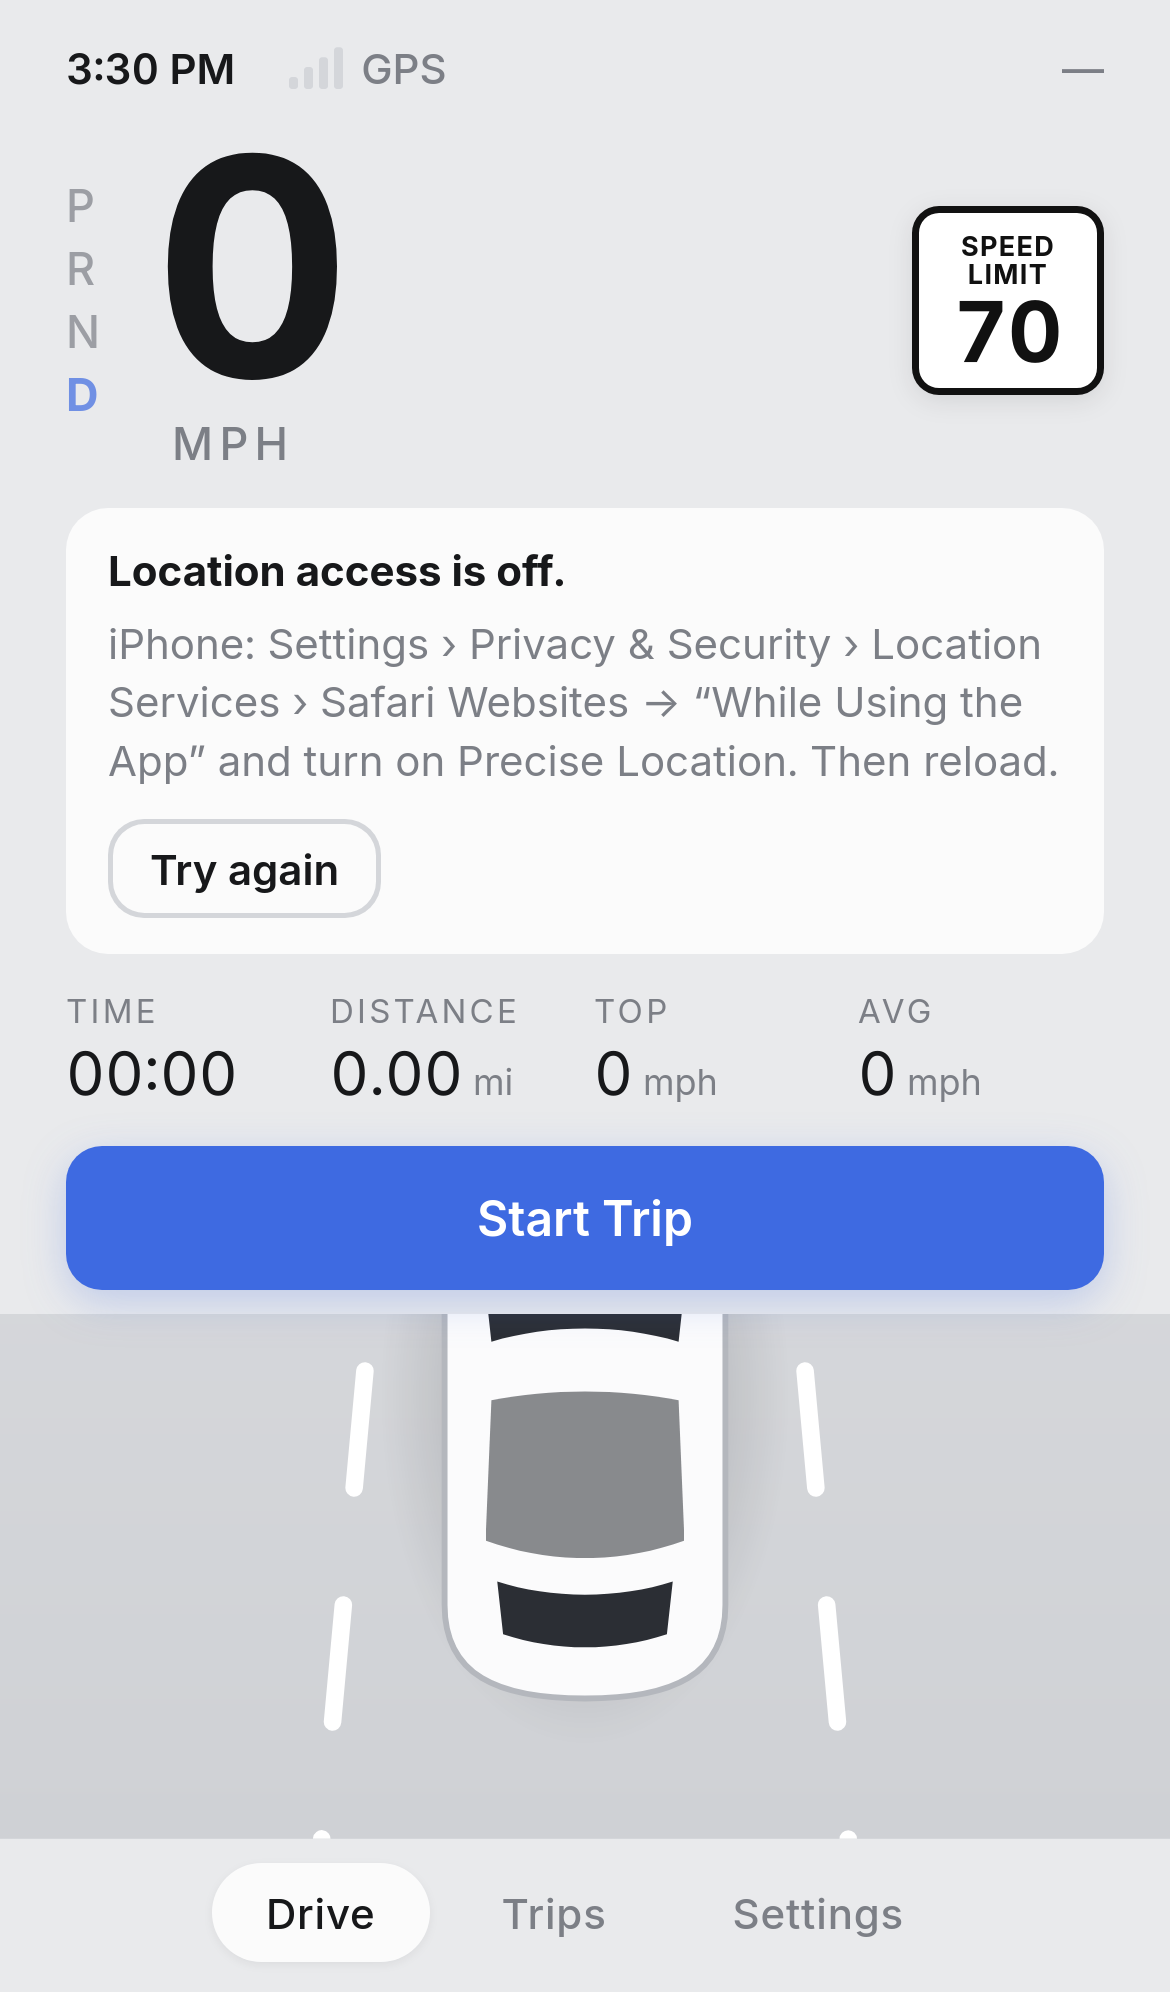
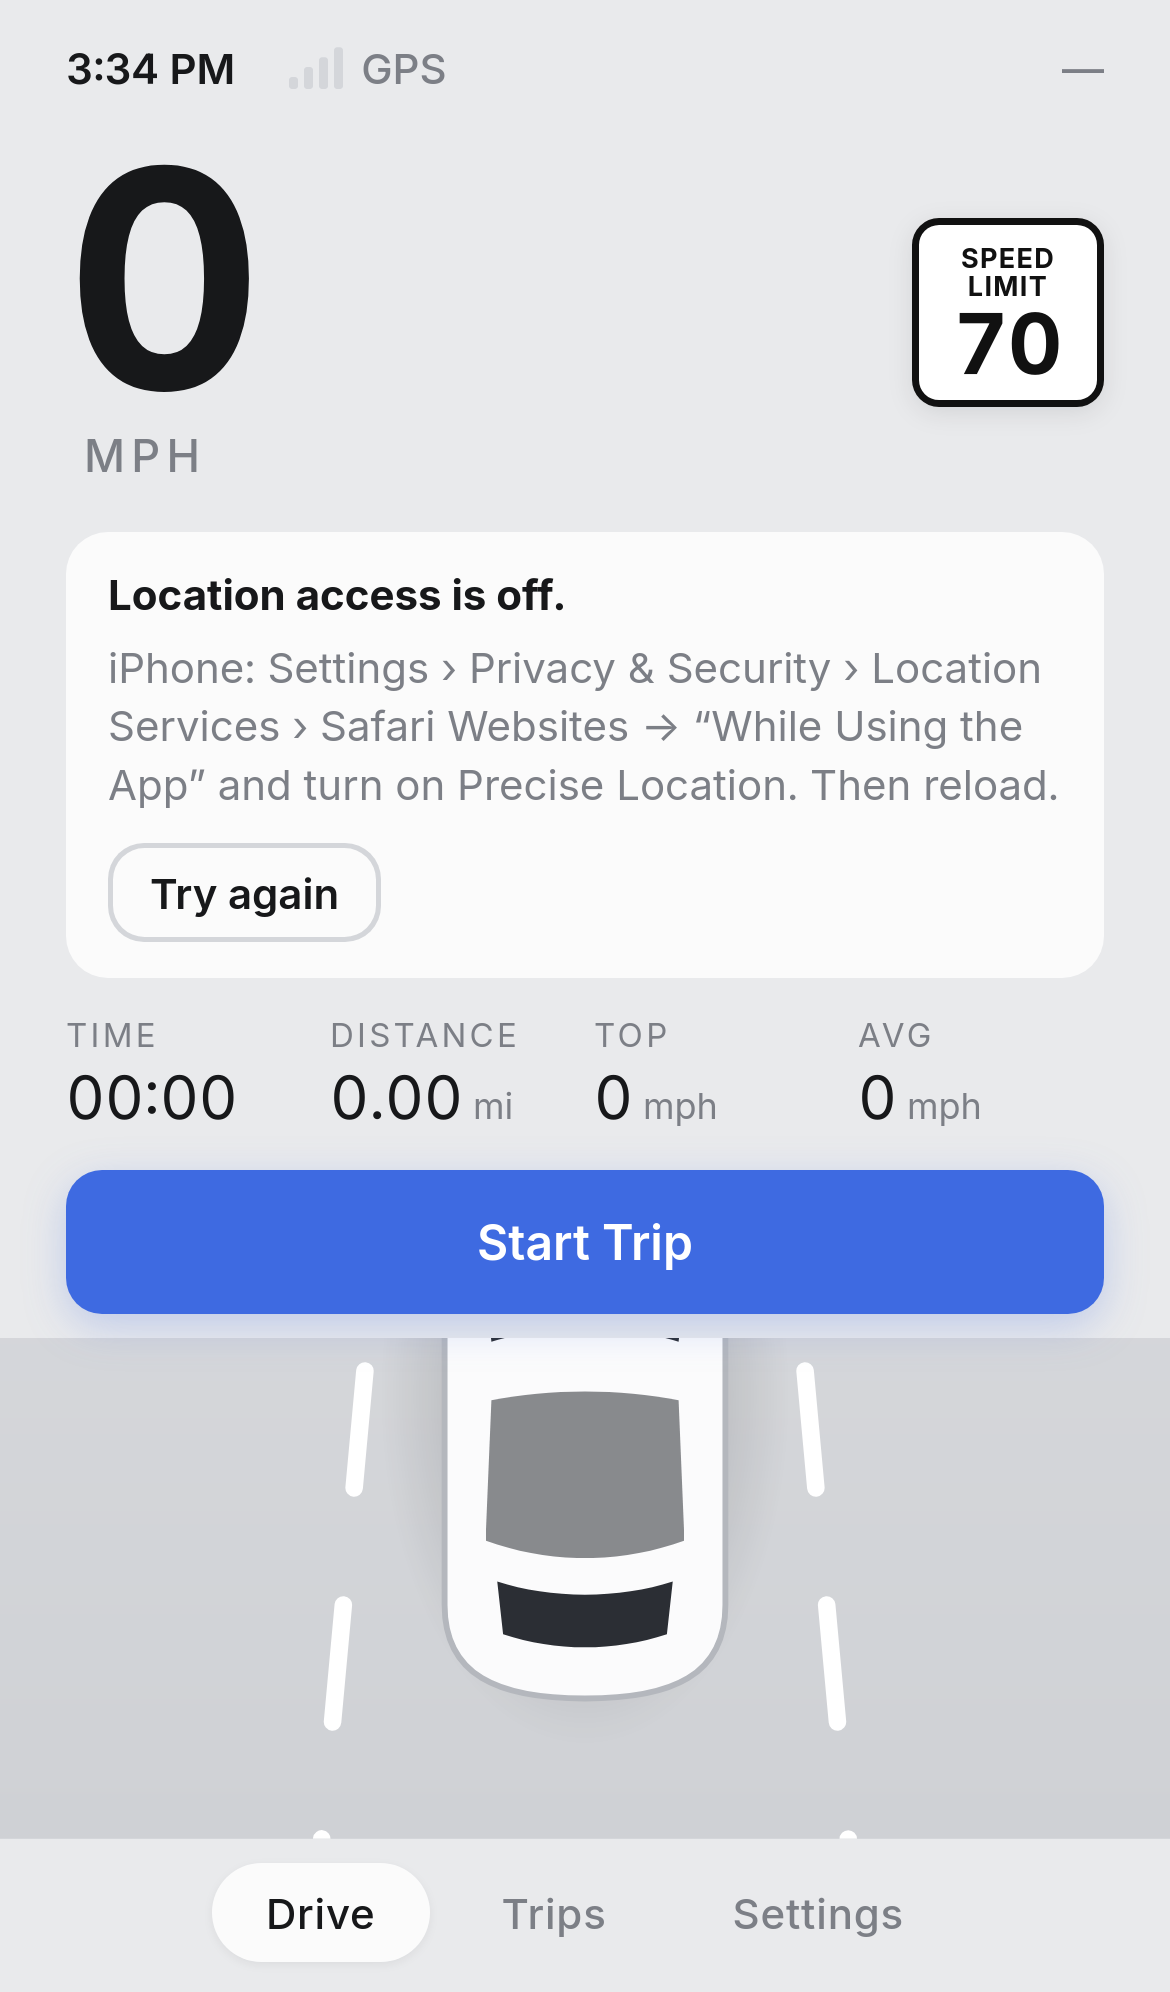
Remove PRND gear indicator, rebalance speed row; v2 SW cache

diff --git a/src/index.css b/src/index.css
@@ -28,9 +28,8 @@ button { font: inherit; color: inherit; cursor: pointer; -webkit-tap-highlight-c
 .status .tripd { margin-left: auto; }
 .signal { display: inline-flex; gap: 6px; align-items: center; }
 .signal .b { fill: var(--line); } .signal .b.on { fill: var(--fg); }
-.speedrow { display: grid; grid-template-columns: auto 1fr auto; align-items: center; gap: 18px; }
-.gears { display: flex; flex-direction: column; gap: 2px; font-size: 15px; font-weight: 500; color: var(--mut); opacity: .7; }
-.gears .on { color: var(--accent); opacity: 1; font-weight: 700; }
+.speedrow { display: flex; align-items: center; justify-content: space-between; gap: 20px; padding: 4px 0; }
+.speed { min-width: 0; }
 .speed .num { font-size: clamp(88px, 26vw, 150px); font-weight: 700; line-height: .9; letter-spacing: -.04em; transition: color .25s; }
 .speed .unit { font-size: 15px; font-weight: 500; letter-spacing: .14em; color: var(--mut); margin-top: 4px; padding-left: 6px; }
 .limit { width: 64px; padding: 6px 4px 4px; border-radius: 9px; background: #fff; color: #111; border: 2.5px solid #111; text-align: center; box-shadow: 0 2px 8px #00000018; transition: all .25s; }
@@ -69,6 +68,7 @@ button { font: inherit; color: inherit; cursor: pointer; -webkit-tap-highlight-c
   .drive { grid-template-rows: 1fr; grid-template-columns: minmax(330px, 40%) 1fr; }
   .panel { justify-content: center; padding: 16px 28px; }
   .speed .num { font-size: clamp(90px, 13vw, 220px); }
+  .speedrow { gap: 28px; }
 }
 @media (orientation: landscape) and (max-height: 500px) {
   .panel { gap: 8px; padding: 8px 20px; }
@@ -78,8 +78,7 @@ button { font: inherit; color: inherit; cursor: pointer; -webkit-tap-highlight-c
 }
 @media (min-width: 1200px) {
   .status { font-size: 18px; }
-  .gears { font-size: 20px; }
-  .speed .unit { font-size: 20px; }
+    .speed .unit { font-size: 20px; }
   .limit { width: 86px; } .limit small { font-size: 12px; } .limit b { font-size: 38px; }
   .stat b { font-size: 28px; } .stat span { font-size: 13px; }
   .btn { font-size: 19px; padding: 18px; }

diff --git a/src/App.tsx b/src/App.tsx
@@ -120,7 +120,6 @@ function Drive(p: { settings: Settings; status: GpsStatus; errMsg?: string; spee
           <span className="tripd">{t ? `${distUnit(t.distance, u).toFixed(1)} ${du}` : '—'}</span>
         </div>
         <div className="speedrow">
-          <div className="gears" aria-hidden>{'PRND'.split('').map((g) => <span key={g} className={g === 'D' ? 'on' : ''}>{g}</span>)}</div>
           <div className="speed" data-testid="speed">
             <div className="num">{waiting ? '--' : Math.round(p.shown)}</div>
             <div className="unit">{u === 'mph' ? 'MPH' : 'KM/H'}</div>

diff --git a/src/sw-template.js b/src/sw-template.js
@@ -1,6 +1,6 @@
 /* Lanecast service worker — generated at build time (see vite.config.ts). */
 const VERSION = '__VERSION__'
-const CACHE = `lanecast-v1-${VERSION}`
+const CACHE = `lanecast-v2-${VERSION}`
 const PRECACHE = __PRECACHE__
 
 self.addEventListener('install', (event) => {
